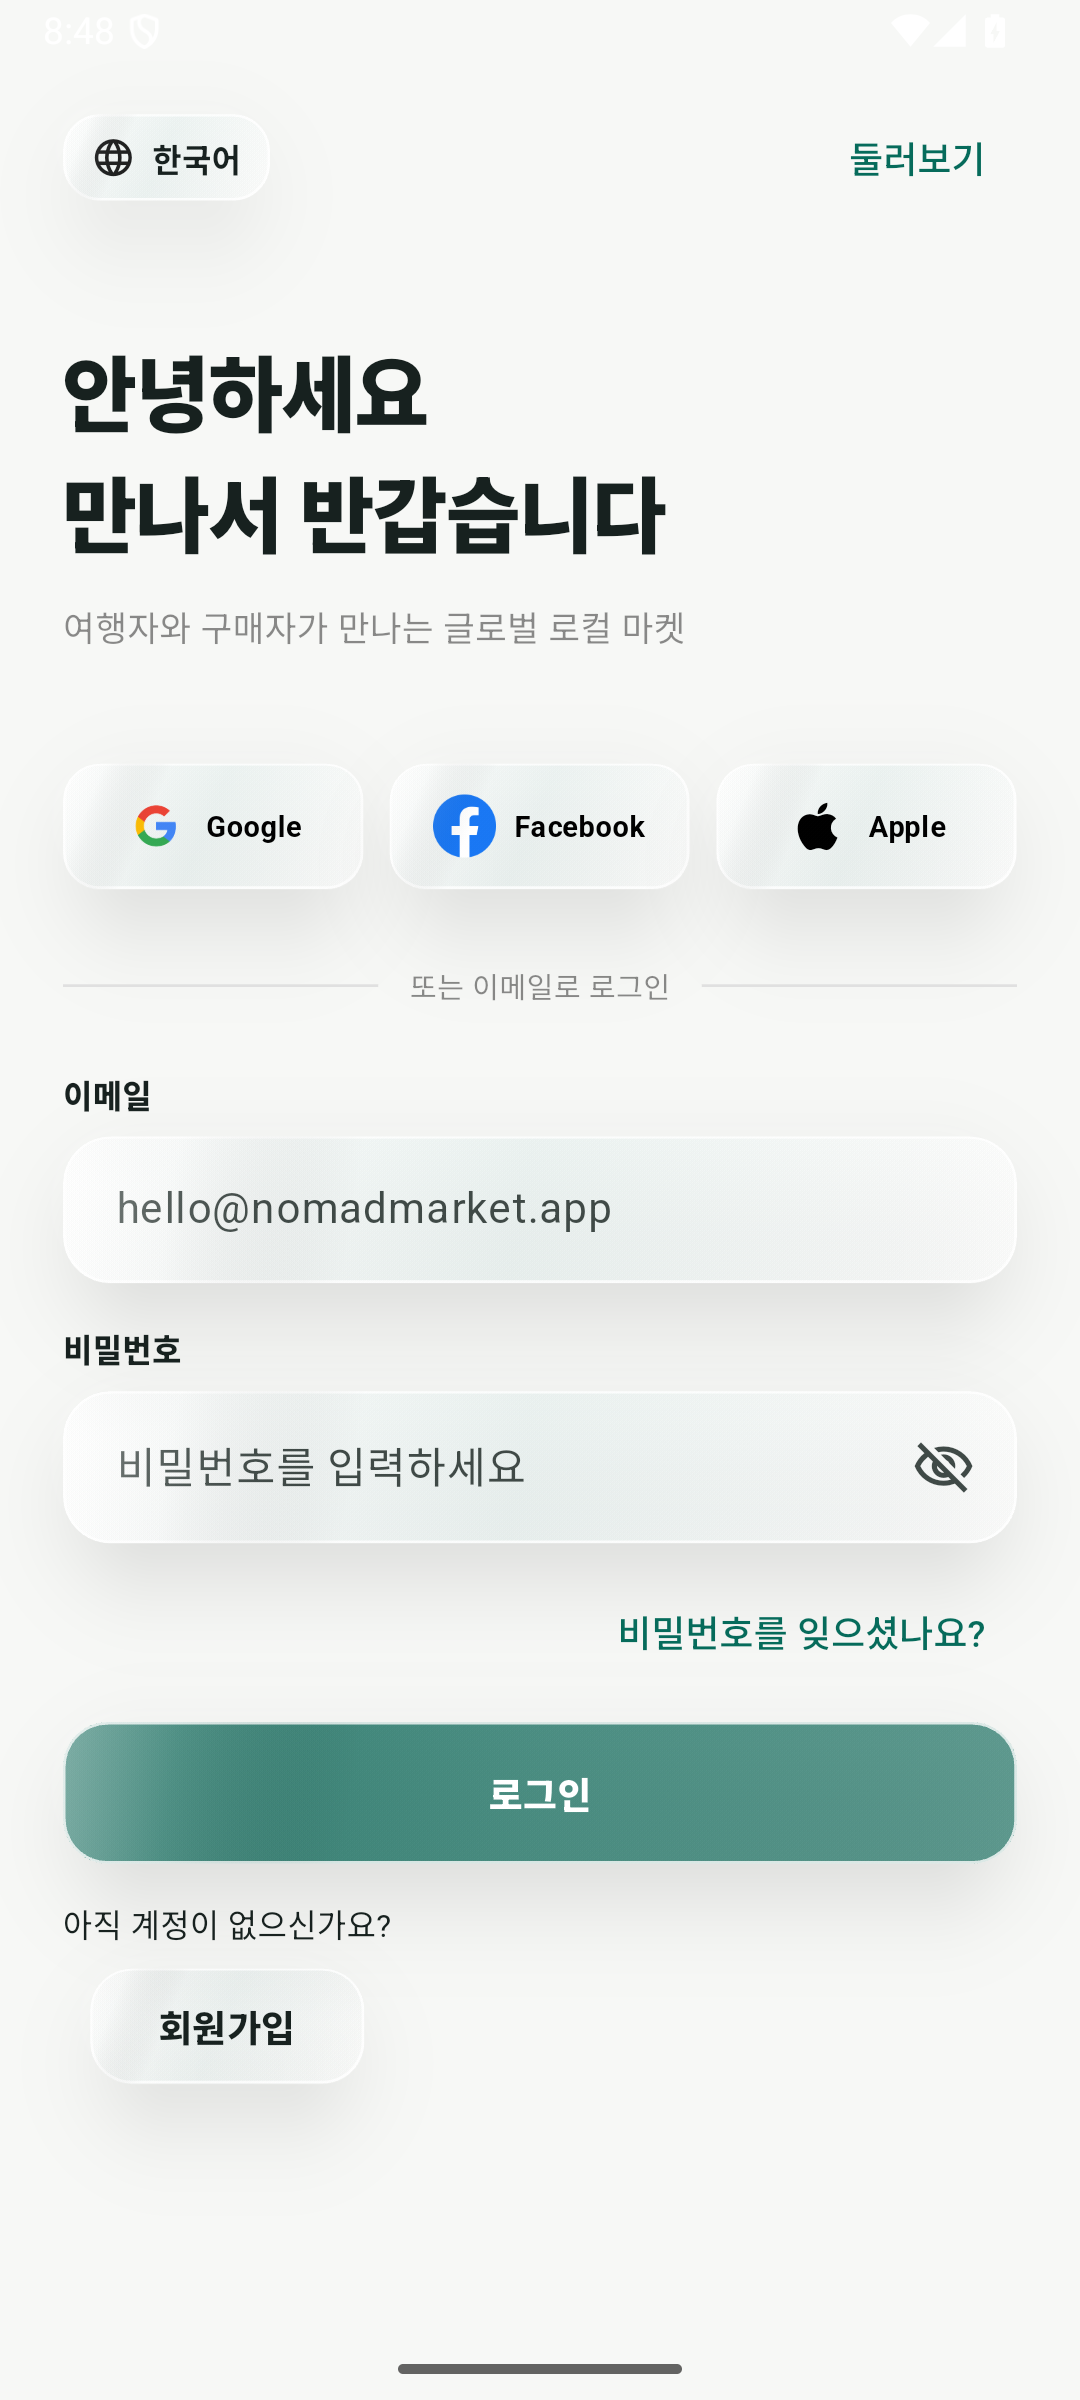
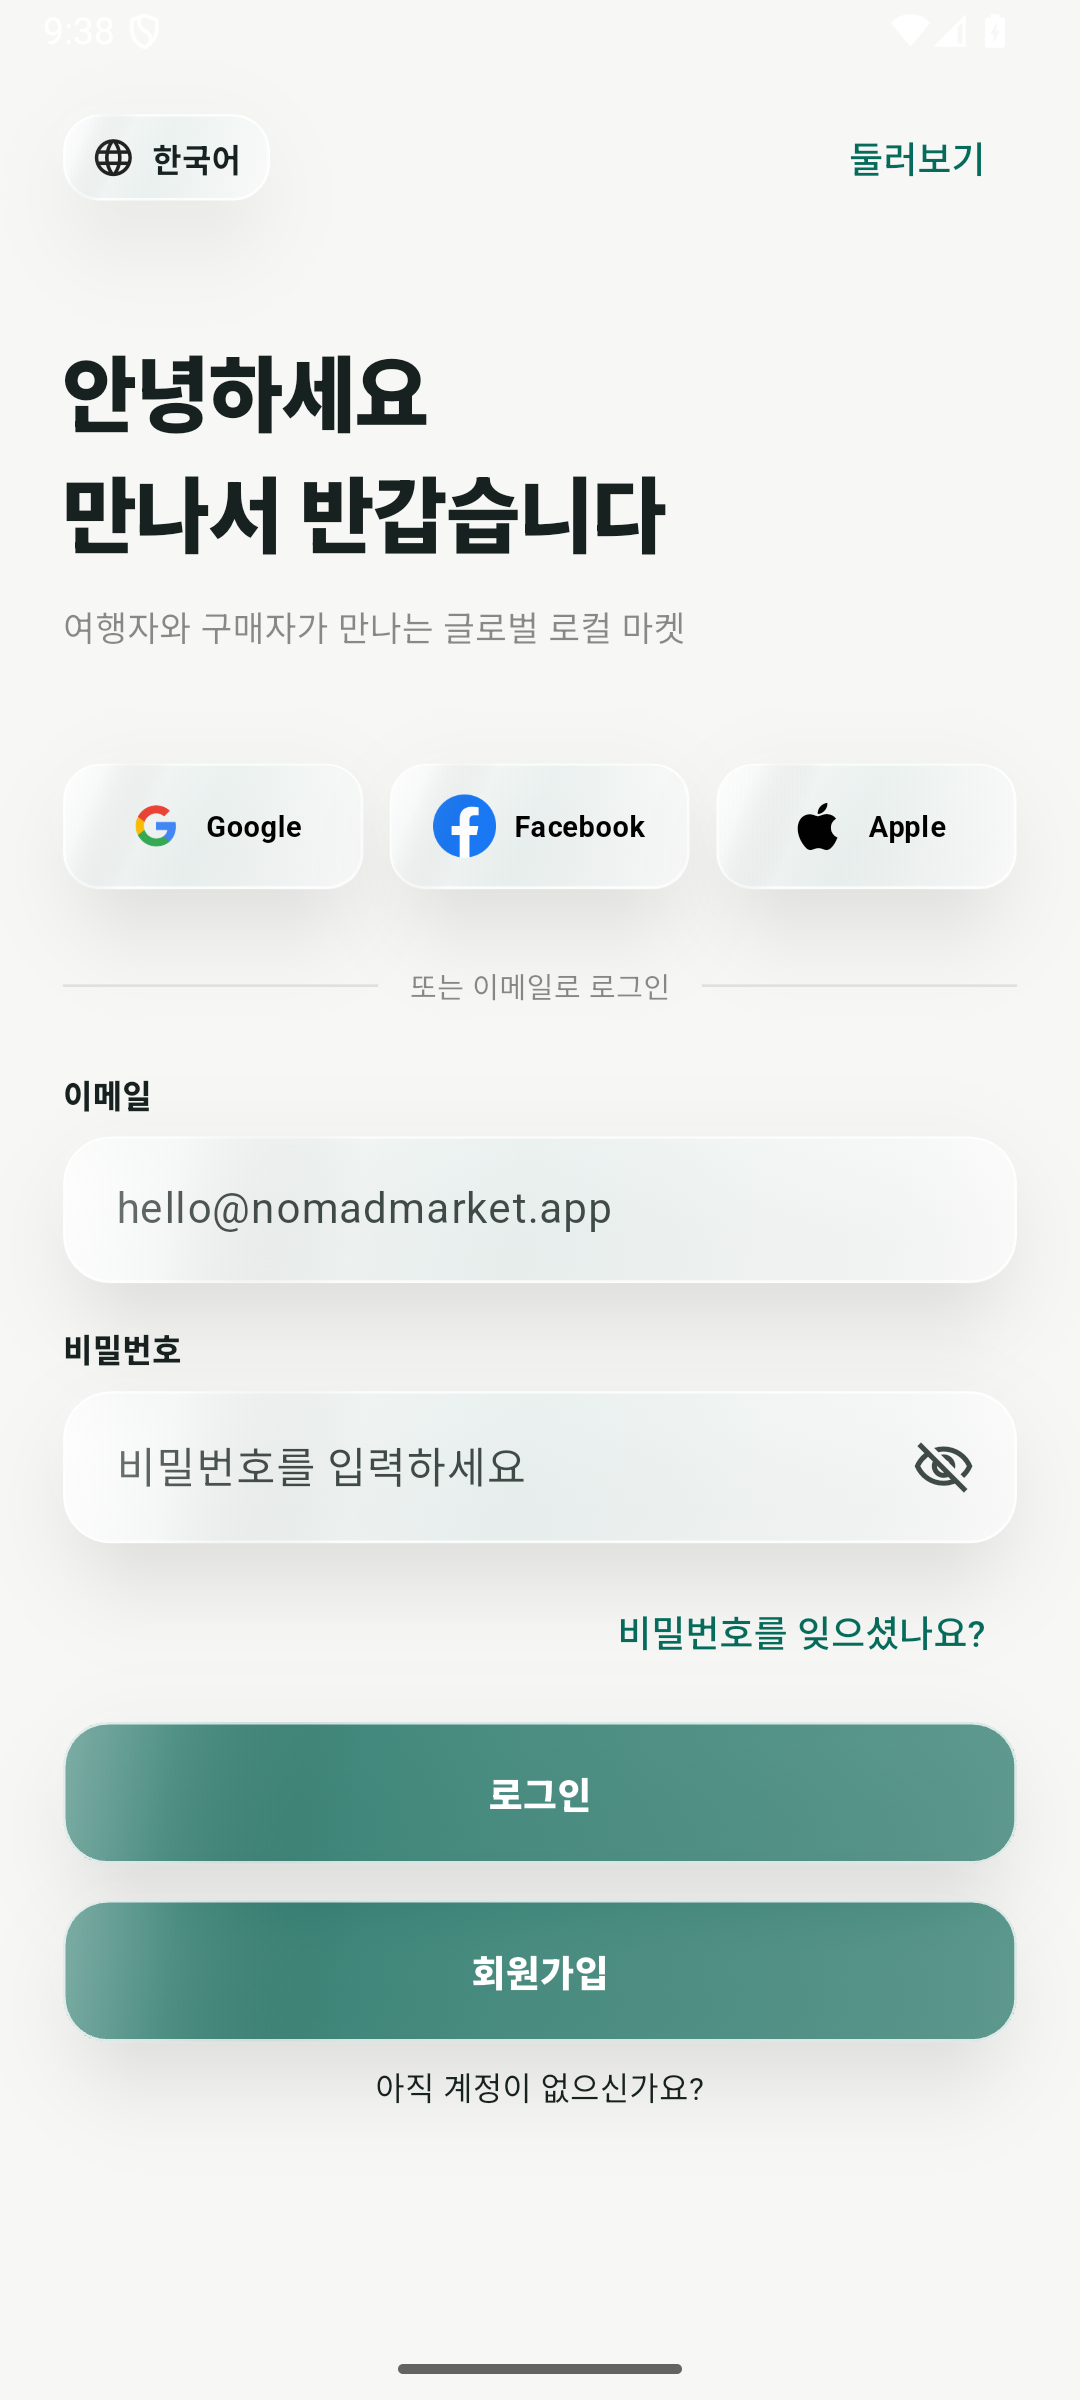
Refine Nomad Market signup CTA layout

Changed region(s): [[0.0611, 0.7812, 0.9472, 0.875]]

diff --git a/lib/screens/login_screen.dart b/lib/screens/login_screen.dart
@@ -213,27 +213,20 @@ class _LoginScreenState extends State<LoginScreen> {
     return Column(
       mainAxisSize: MainAxisSize.min,
       children: [
+        AppGlassPrimaryButton(
+          key: const Key('open-signup'),
+          onPressed: () => Navigator.of(context).push(
+            MaterialPageRoute(builder: (_) => const SignupFlowScreen()),
+          ),
+          label: '회원가입',
+          tint: NomadTheme.brand,
+          minHeight: 54,
+        ),
+        const SizedBox(height: 8),
         const Text(
           '아직 계정이 없으신가요?',
           textAlign: TextAlign.center,
           style: TextStyle(fontSize: 12),
-        ),
-        const SizedBox(height: 8),
-        AppGlassSurface(
-          onTap: () => Navigator.of(context).push(
-            MaterialPageRoute(builder: (_) => const SignupFlowScreen()),
-          ),
-          semanticLabel: '회원가입',
-          surfaceOpacity: .48,
-          borderRadius: BorderRadius.circular(16),
-          blurSigma: 18,
-          padding: const EdgeInsets.symmetric(horizontal: 26, vertical: 12),
-          child: const Text(
-            '회원가입',
-            key: Key('open-signup'),
-            textAlign: TextAlign.center,
-            style: TextStyle(fontWeight: FontWeight.w800),
-          ),
         ),
       ],
     );
